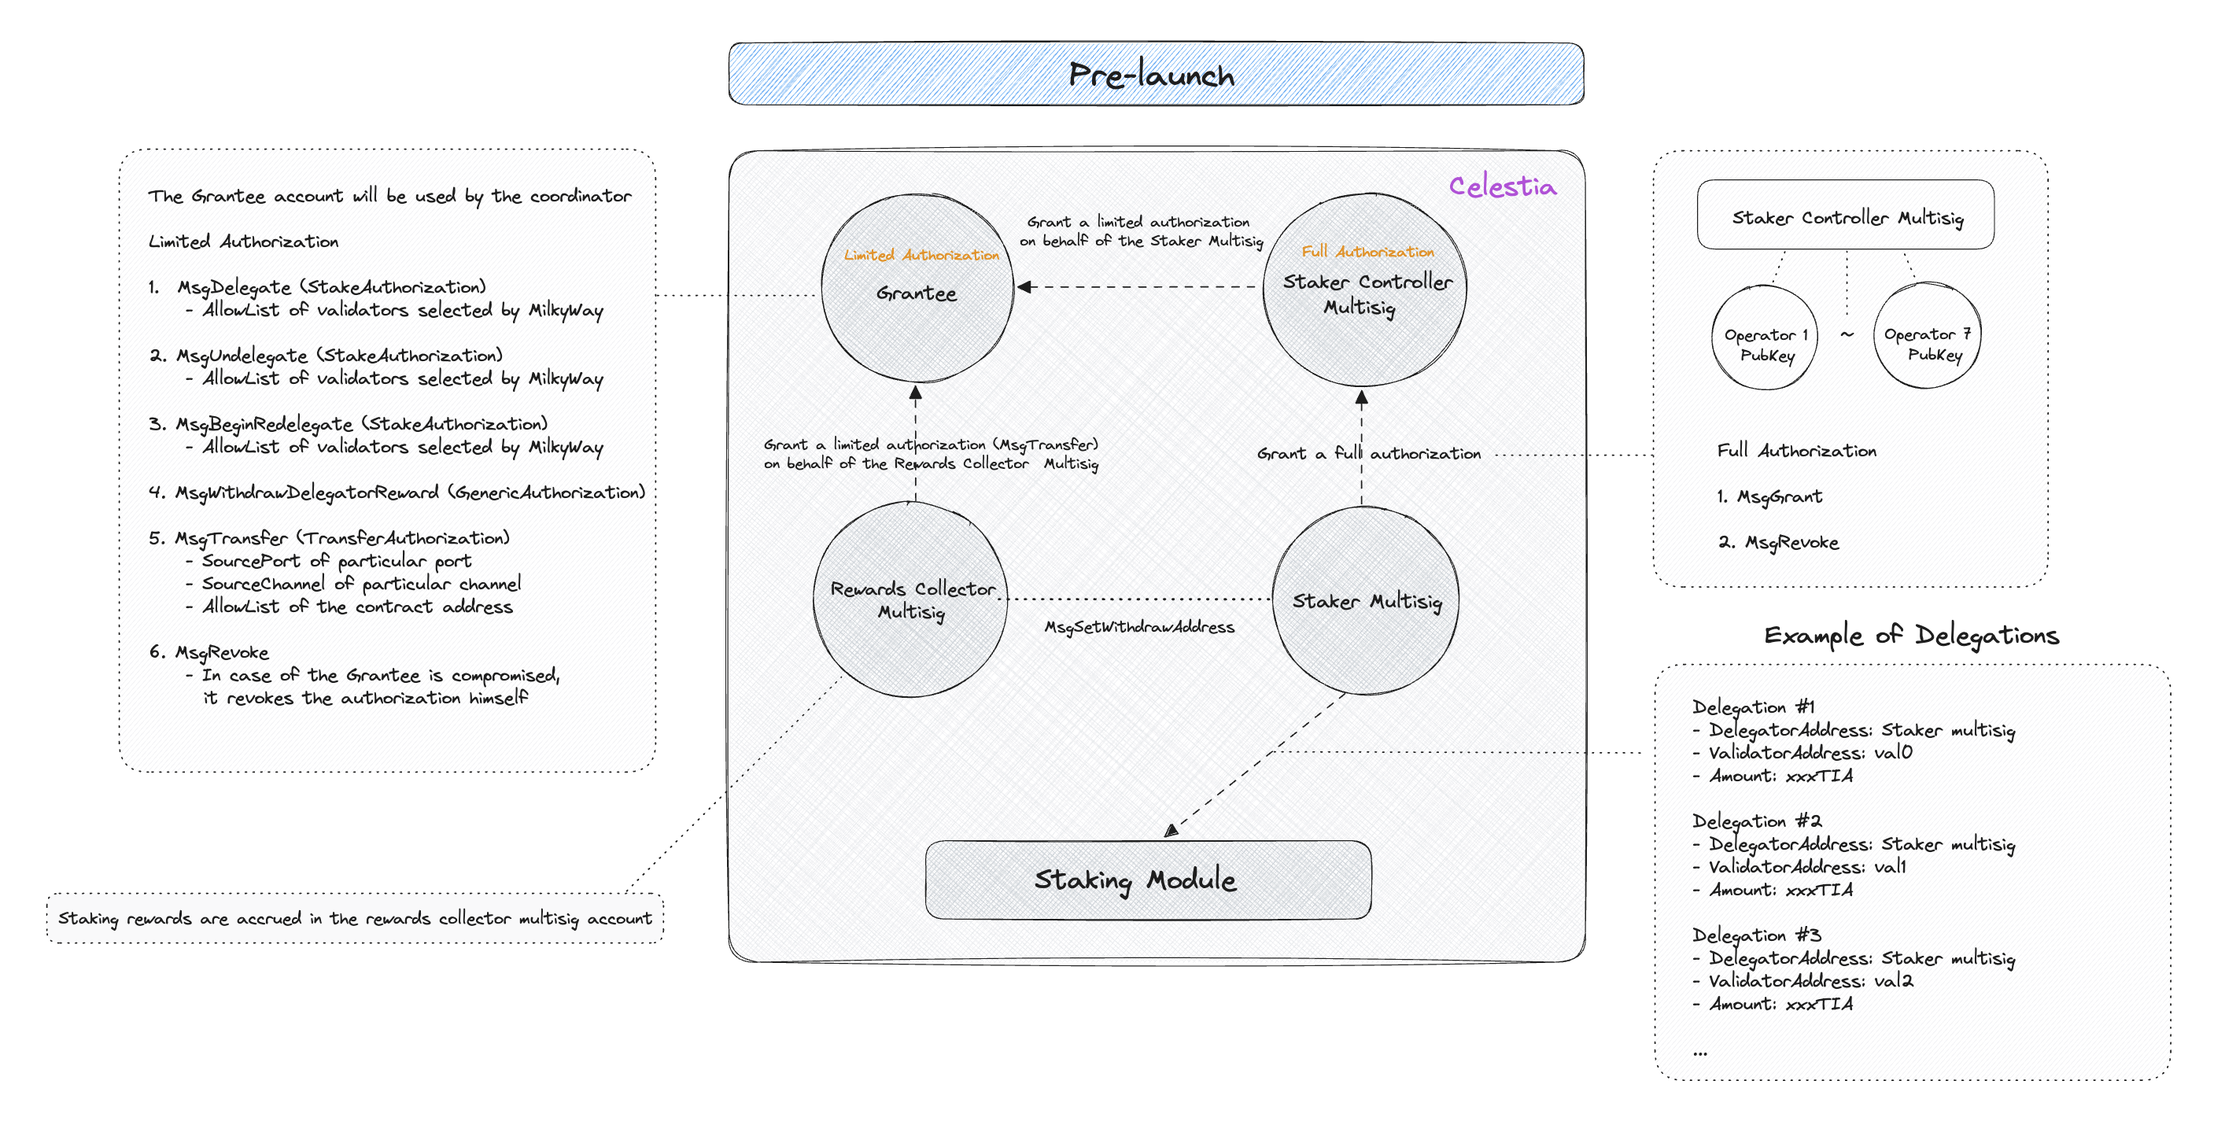
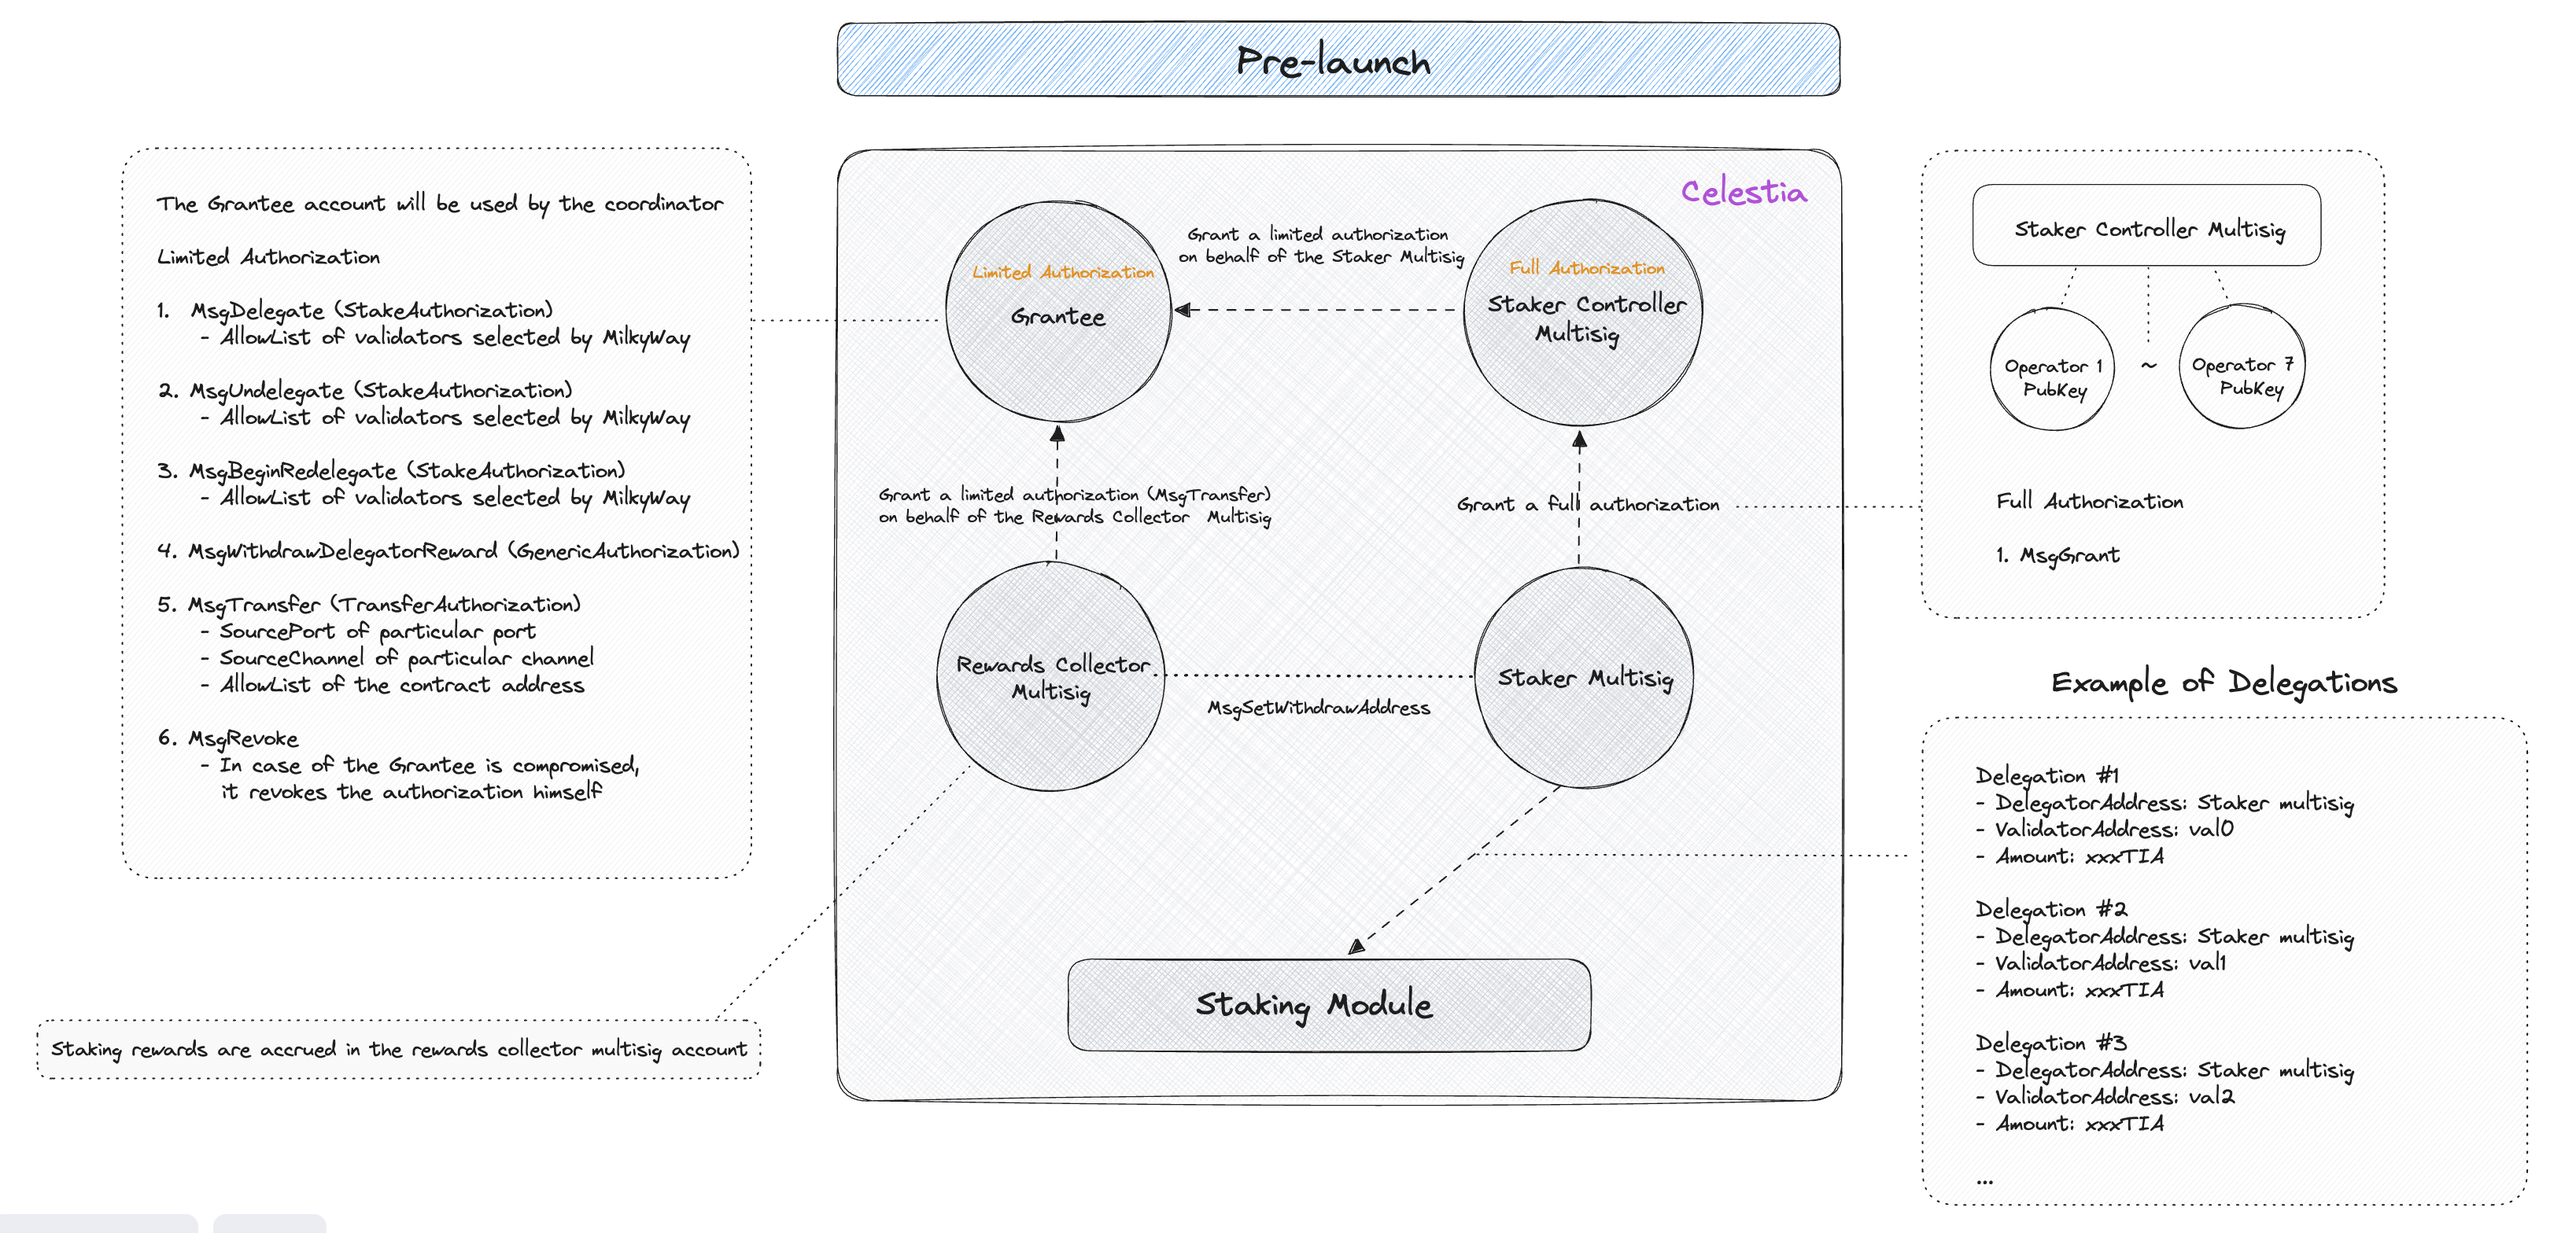
docs: update contents

diff --git a/README.md b/README.md
@@ -53,7 +53,7 @@ The following diagrams for each process provide a visual representation of Milky
 At launch, MilkyWay begins with 7 operators. Every operator needs to generate 3 accounts on Celestia and share their public keys. This information will be used to set up the following multi-signature accounts. It is essential that the generated accounts are securely stored in a vault with as low risk of compromise as possible.
 
 1. `Staker multisig`
-    - This account is configured as a 5-of-7 multisig, utilizing the public keys of the operators. It serves its purpose solely by granting full authorization to the staker controller multisig account. The full authorization means to grant privileges to grant and revoke to the staker controller multisig account on behalf of the staker.
+    - This account is configured as a 5-of-7 multisig, utilizing the public keys of the operators. It serves its purpose solely by granting full authorization to the staker controller multisig account. The full authorization means to grant privileges to grant to the staker controller multisig account on behalf of the staker.
 
 2. `Staker controller multisig`
     - This account is configured as a 5-of-7 multisig, utilizing the public keys of the operators. It receives a full authorization from the staker multisig account and performs actions on behalf of the staker multisig account.
@@ -78,9 +78,6 @@ There will be an account called `Grantee`, which will receive a limited authoriz
     - `MsgTransfer`
         - Setting this authorization with the specific source port, channel and an allow list of the MilkyWay’s contract address.
         - Under this limited authorization, the grantee is permitted to ibc transfer the the addresses listed in the allow list.
-    - `MsgRevoke`
-        - This authorization is granted in the event that the `Grantee` account is compromised.
-
 
 ## Liquid Staking Process
 
